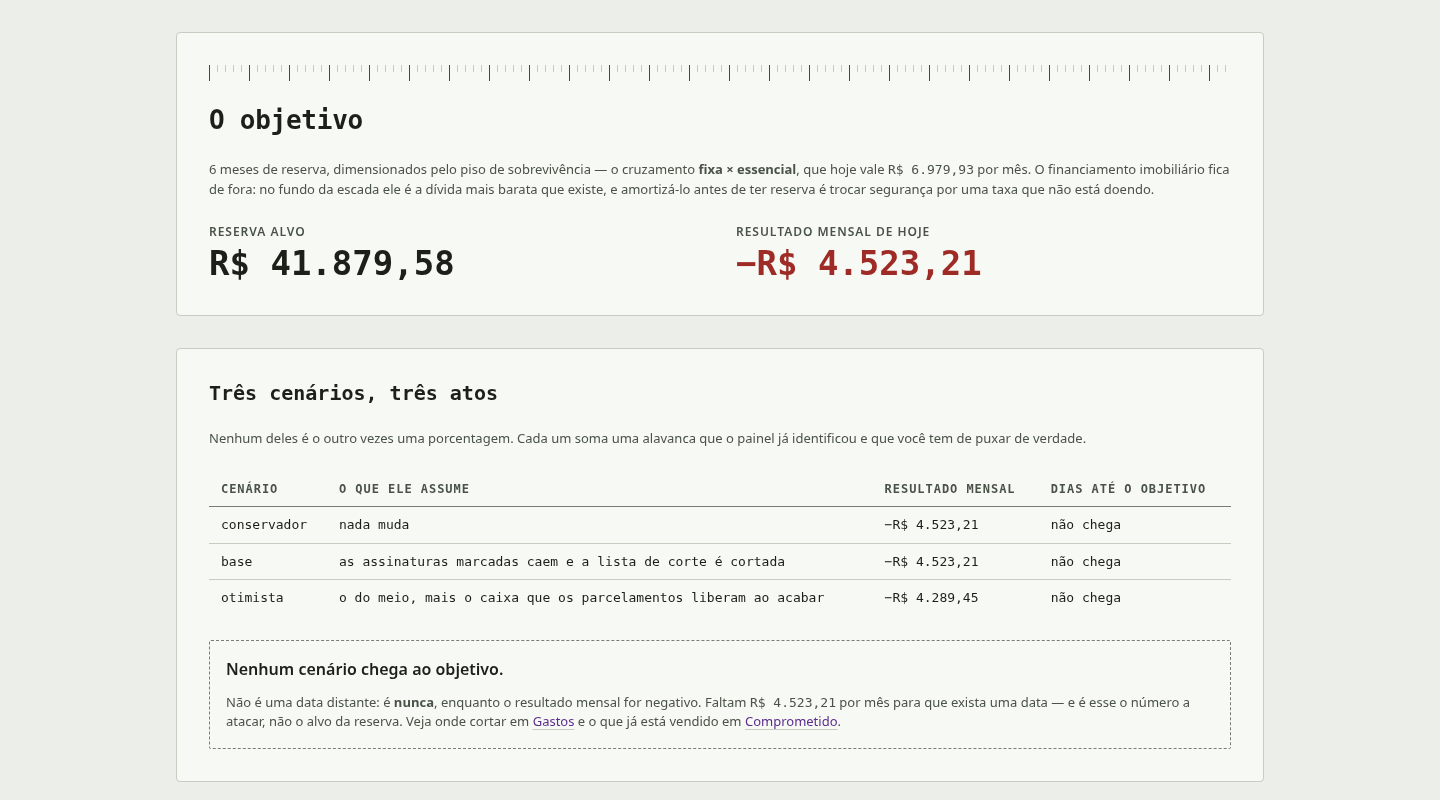
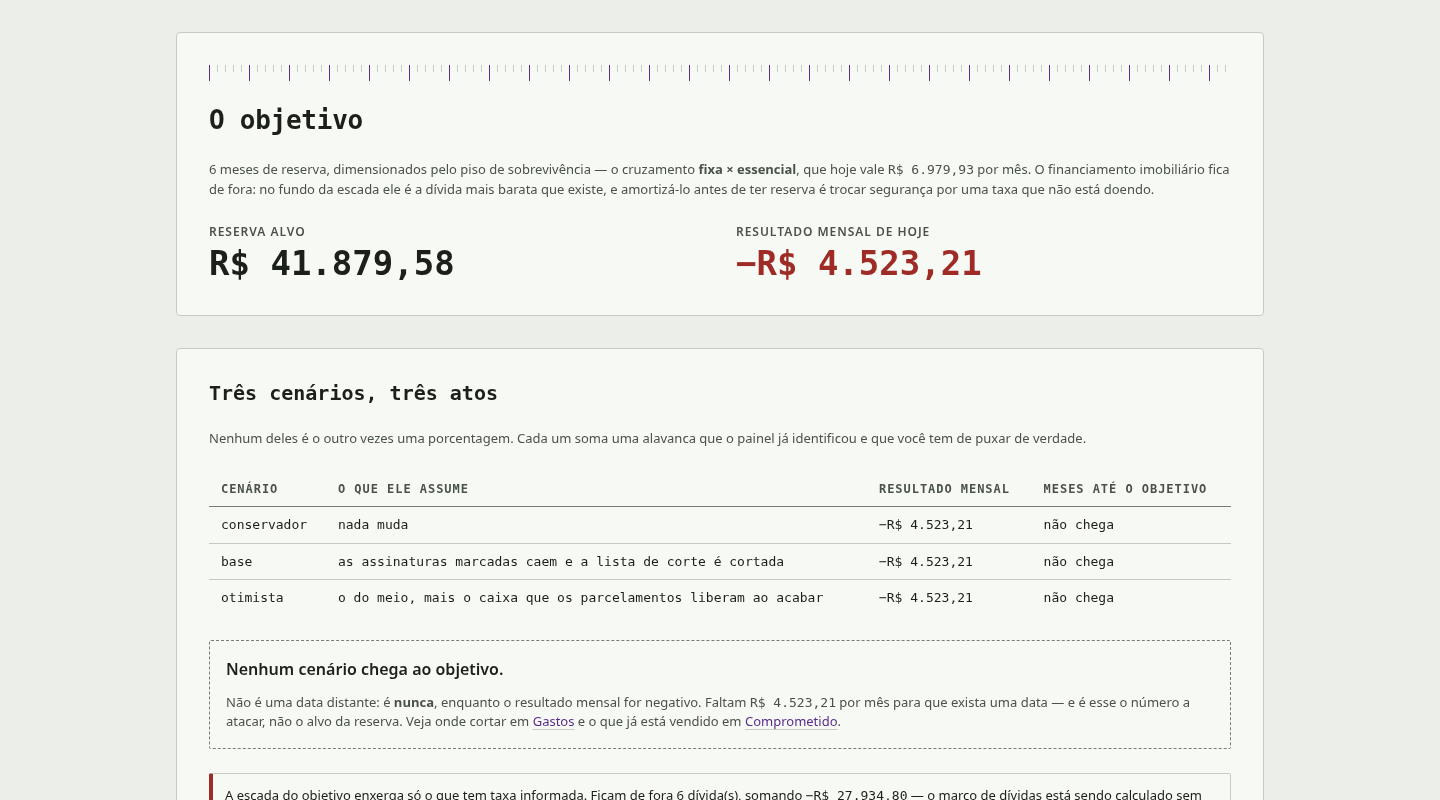
fix(007): the reproved verdict found the date being brought forward
One criterion failed — a test asserting two of the three milestones — and the
hunt around it found eleven things, of which four move the date this screen
exists to give:

- ?data=0001-01-01 is valid ISO, passed the guard and blew up twelve months
  earlier in calendar arithmetic: HTTP 500. The reference date is now clamped.
- a month whose spare came out exactly zero fed the whole month into the
  reserve, crediting a month that went entirely to the debt.
- a ladder already clear was reported as cleared in month one, not month zero.
- the optimistic scenario applied the cash freed by instalments from month one,
  while its own label says "ao acabar".

And three where the screen said something untrue: "enquanto o resultado for
negativo" printed over a positive result with "faltam R$ 0,00" beside it; the
objective ladder silently ignoring the six debts with no rate, R$ 27.934,80 of
real debt; and the timeline comparing projections against a reserve target that
moves with the six-month window, without showing it.

diff --git a/app/templates/objetivo.html b/app/templates/objetivo.html
@@ -32,7 +32,7 @@
         <thead>
           <tr><th scope="col">Cenário</th><th scope="col">O que ele assume</th>
             <th scope="col" class="col-num">Resultado mensal</th>
-            <th scope="col" class="col-num">Dias até o objetivo</th></tr>
+            <th scope="col" class="col-num">Meses até o objetivo</th></tr>
         </thead>
         <tbody>
           {% for run in scenarios %}
@@ -41,7 +41,7 @@
             <td>{{ run['scenario'] }}</td>
             <td>{{ run['label'] }}</td>
             <td class="cifra col-num">{{ run['monthly_result_cents']|brl }}</td>
-            <td class="cifra col-num">{% if run['months_to_objective'] is not none %}{{ run['months_to_objective'] * 30 }}{% else %}não chega{% endif %}</td>
+            <td class="cifra col-num">{% if run['months_to_objective'] is not none %}{{ run['months_to_objective'] }}{% else %}não chega{% endif %}</td>
           </tr>
           {% endfor %}
         </tbody>
@@ -50,12 +50,24 @@
     {% if not reachable %}
     <div class="empty">
       <p class="empty-title">Nenhum cenário chega ao objetivo.</p>
+      {% if base['missing_cents'] %}
       <p class="lede">Não é uma data distante: é <strong>nunca</strong>, enquanto o resultado
         mensal for negativo. Faltam <span class="cifra">{{ base['missing_cents']|brl }}</span> por
         mês para que exista uma data — e é esse o número a atacar, não o alvo da reserva. Veja
         onde cortar em <a href="/gastos">Gastos</a> e o que já está vendido em
         <a href="/comprometido">Comprometido</a>.</p>
+      {% else %}
+      <p class="lede">O resultado mensal já é positivo, mas a sobra não vence os juros da escada
+        dentro do horizonte projetado: o que entra por mês é menor que o que a dívida cresce.
+        Ataque primeiro o degrau de cima em <a href="/dividas">Dívidas</a>.</p>
+      {% endif %}
     </div>
+    {% endif %}
+    {% if unrated %}
+    <p class="notice" id="sem-taxa-aviso" role="status">A escada do objetivo enxerga só o que tem
+      taxa informada. Ficam de fora {{ unrated|length }} dívida(s), somando
+      <span class="cifra">{{ unrated_cents|brl }}</span> — o marco de dívidas está sendo calculado
+      sem elas. Informe as taxas em <a href="/dividas">Dívidas</a>.</p>
     {% endif %}
   </section>
   <section id="marcos" class="panel panel-wide">
@@ -82,7 +94,8 @@
     <h2 class="section-title">A linha do tempo</h2>
     <p class="lede">Cada leitura desta tela grava um ponto. "Em março você projetava 30 meses,
       hoje projeta 24" é o único sinal de progresso que este produto aceita — e ele só existe se
-      houver um março com que comparar.</p>
+      houver um março com que comparar. A reserva alvo aparece na série porque ela também se
+      move: comparar projeções contra um alvo que mudou é comparar coisas diferentes.</p>
     <div class="scale" aria-hidden="true"></div>
     {% if history|length > 1 %}
     <div class="table-scroll">
@@ -90,12 +103,14 @@
         <caption class="sr-only">Projeções gravadas, do cenário base.</caption>
         <thead><tr><th scope="col">Data de referência</th>
           <th scope="col" class="col-num">Resultado mensal</th>
+          <th scope="col" class="col-num">Reserva alvo</th>
           <th scope="col" class="col-num">Meses até o objetivo</th></tr></thead>
         <tbody>
           {% for point in history %}
           <tr data-ponto="{{ point['reference_date'] }}">
             <td class="calendar-date">{{ point['reference_date']|dia }}</td>
             <td class="cifra col-num">{{ point['monthly_result_cents']|brl }}</td>
+            <td class="cifra col-num" data-alvo="{{ point['reserve_target_cents'] }}">{{ point['reserve_target_cents']|brl }}</td>
             <td class="cifra col-num">{% if point['months_to_objective'] is not none %}{{ point['months_to_objective'] }}{% else %}não chega{% endif %}</td>
           </tr>
           {% endfor %}

diff --git a/app/plan/timeline.py b/app/plan/timeline.py
@@ -1,6 +1,7 @@
 import sqlite3
 from datetime import date
 
+from app.commitments.live import released_cash
 from app.debts.ladder import MORTGAGE, ladder
 from app.plan.objective import baseline_cents, levers, reserve_target_cents
 from app.projection.position import positions
@@ -11,6 +12,7 @@ OPTIMISTIC = "otimista"
 SCENARIOS = (CONSERVATIVE, BASE, OPTIMISTIC)
 
 EXPENSIVE_RATE_BP = 100
+RATE_SCALE = 10000
 HORIZON_MONTHS = 360
 
 LABELS = {
@@ -18,6 +20,21 @@ LABELS = {
     BASE: "as assinaturas marcadas caem e a lista de corte é cortada",
     OPTIMISTIC: "o do meio, mais o caixa que os parcelamentos liberam ao acabar",
 }
+
+
+def released_by_month(conn: sqlite3.Connection, *, today: date) -> list[tuple[int, int]]:
+    # The cash an instalment frees arrives when the instalment ends, not today:
+    # the label says "ao acabar" and the simulation has to honour it (RF-16).
+    reference = f"{today.year:04d}-{today.month:02d}"
+    freed = []
+    for row in released_cash(conn, today=today):
+        ahead = _months_between(reference, row["month"])
+        freed.append((max(ahead, 0), row["amount_cents"]))
+    return sorted(freed)
+
+
+def _months_between(start: str, end: str) -> int:
+    return (int(end[:4]) - int(start[:4])) * 12 + int(end[5:7]) - int(start[5:7])
 
 
 def monthly_result_cents(conn: sqlite3.Connection, scenario: str, *, today: date) -> int:
@@ -29,8 +46,6 @@ def monthly_result_cents(conn: sqlite3.Connection, scenario: str, *, today: date
     result = baseline_cents(conn, today=today)
     if scenario in (BASE, OPTIMISTIC):
         result += gained["dismissed"] + gained["cut"]
-    if scenario == OPTIMISTIC:
-        result += gained["released"]
     return result
 
 
@@ -46,17 +61,24 @@ def expensive_debts(conn: sqlite3.Connection) -> list[dict]:
 
 
 def simulate(conn: sqlite3.Connection, scenario: str, *, today: date) -> dict:
-    result = monthly_result_cents(conn, scenario, today=today)
+    base_result = monthly_result_cents(conn, scenario, today=today)
+    freed = released_by_month(conn, today=today) if scenario == OPTIMISTIC else []
     target = reserve_target_cents(conn, today=today)
-    owed = [abs(row["balance_cents"]) for row in expensive_debts(conn)]
-    rates = [(row["monthly_rate_bp"] or 0) / 10000 for row in expensive_debts(conn)]
+    steps = expensive_debts(conn)
+    owed = [abs(row["balance_cents"]) for row in steps]
+    rates = [(row["monthly_rate_bp"] or 0) / RATE_SCALE for row in steps]
     cash = positions(conn)["cash_cents"]
 
     milestones: dict[str, int | None] = {"resultado": None, "dividas": None, "reserva": None}
-    if result >= 0:
+    if base_result >= 0:
         milestones["resultado"] = 0
+    # A ladder that is already clear was cleared in month zero, not in month one.
+    if not any(owed):
+        milestones["dividas"] = 0
     reserve = 0
+    result = base_result
     for month in range(1, HORIZON_MONTHS + 1):
+        result += sum(amount for when, amount in freed if when == month)
         if result <= 0:
             # A month that ends in the red cannot pay anything down, and the debt
             # grows at its own rate: saying "in N months" here would be inventing
@@ -74,19 +96,22 @@ def simulate(conn: sqlite3.Connection, scenario: str, *, today: date) -> dict:
         if milestones["dividas"] is None and not any(owed):
             milestones["dividas"] = month
         if not any(owed):
-            reserve += spare if spare else result
+            # Only what the ladder did not swallow goes to the reserve. Adding the
+            # whole month when the spare happens to be exactly zero would credit
+            # a month that went entirely to the debt (RF-17).
+            reserve += spare
             if milestones["reserva"] is None and reserve >= target:
                 milestones["reserva"] = month
                 break
     return {
         "scenario": scenario,
         "label": LABELS[scenario],
-        "monthly_result_cents": result,
         "reserve_target_cents": target,
         "cash_cents": cash,
         "expensive_cents": -sum(abs(row["balance_cents"]) for row in expensive_debts(conn)),
         "milestones": milestones,
         "months_to_objective": milestones["reserva"],
+        "monthly_result_cents": base_result,
         # Without a date, the only useful number left is how far the monthly
         # result is from zero: that is the distance between "never" and "a date
         # exists", and it is the one thing the owner can act on.

diff --git a/tests/test_plan.py b/tests/test_plan.py
@@ -59,7 +59,7 @@ def test_a_month_that_ends_in_the_red_never_reaches_the_objective(taxonomy_conn)
 
     assert found["monthly_result_cents"] < 0
     assert found["months_to_objective"] is None
-    assert found["milestones"]["resultado"] is None
+    assert found["milestones"] == {"resultado": None, "dividas": None, "reserva": None}
     assert found["missing_cents"] == -found["monthly_result_cents"]
 
 
@@ -77,7 +77,7 @@ def test_the_mortgage_never_enters_the_expensive_ladder(taxonomy_conn):
     conn = prepare(taxonomy_conn, salary(5000.0) + rent(-1000.0))
     conn.execute(
         "INSERT INTO debts (kind, name, balance_cents, monthly_rate_bp, source) "
-        "VALUES ('mortgage', 'Imovel', -20000000, 72, 'teste'), "
+        "VALUES ('mortgage', 'Imovel', -20000000, 200, 'teste'), "
         "('card', 'Cartao', -500000, 900, 'teste')"
     )
     conn.commit()
@@ -103,3 +103,27 @@ def test_every_reading_writes_a_point_and_the_same_day_writes_only_one(taxonomy_
     record(conn, runs, today=date(2026, 10, 5))
 
     assert [point["reference_date"] for point in history(conn)] == ["2026-09-05", "2026-10-05"]
+
+
+def test_a_ladder_already_clear_was_cleared_in_month_zero(taxonomy_conn):
+    conn = prepare(taxonomy_conn, salary(9000.0) + rent(-1000.0))
+    conn.execute("DELETE FROM debts")
+    conn.commit()
+    found = simulate(conn, CONSERVATIVE, today=REFERENCE)
+
+    assert found["milestones"]["dividas"] == 0
+
+
+def test_a_month_that_goes_entirely_to_the_debt_does_not_feed_the_reserve(taxonomy_conn):
+    conn = prepare(taxonomy_conn, salary(9000.0) + rent(-1000.0))
+    conn.execute("DELETE FROM debts")
+    conn.execute(
+        "INSERT INTO debts (kind, name, balance_cents, monthly_rate_bp, source) "
+        "VALUES ('card', 'Cartao', ?, 900, 'teste')",
+        (-simulate(conn, CONSERVATIVE, today=REFERENCE)["monthly_result_cents"] * 100 // 109,),
+    )
+    conn.commit()
+    found = simulate(conn, CONSERVATIVE, today=REFERENCE)
+
+    assert found["milestones"]["dividas"] == 1
+    assert found["milestones"]["reserva"] != 1

diff --git a/app/routers/plan.py b/app/routers/plan.py
@@ -7,6 +7,7 @@ from starlette.requests import Request
 from starlette.responses import Response
 
 from app.db import connect
+from app.debts.ladder import without_rate
 from app.plan.objective import RESERVE_MONTHS, floor_label, levers, survival_floor_cents
 from app.plan.timeline import BASE, every_scenario, history, record
 from app.queries.period import InvalidPeriodError, day
@@ -34,11 +35,20 @@ def objective_screen(request: Request) -> Response:
         conn.close()
 
 
+EARLIEST = date(2000, 1, 1)
+LATEST = date(2100, 12, 31)
+
+
 def _reference(asked: object) -> date:
+    # Every reading of this screen writes a point in a permanent series keyed by
+    # this date, and the twelve-month window behind it does date arithmetic that
+    # falls off the edge of the calendar: `0001-01-01` is valid ISO and took the
+    # route down with a 500 (RF-15).
     try:
-        return day(asked, DATE_FIELD)
+        asked_date = day(asked, DATE_FIELD)
     except InvalidPeriodError:
         return date.today()
+    return asked_date if EARLIEST <= asked_date <= LATEST else date.today()
 
 
 def _context(conn: sqlite3.Connection, runs: list[dict], today: date) -> dict[str, Any]:
@@ -52,4 +62,9 @@ def _context(conn: sqlite3.Connection, runs: list[dict], today: date) -> dict[st
         "levers": levers(conn, today=today),
         "history": history(conn),
         "reachable": any(run["months_to_objective"] is not None for run in runs),
+        # The ladder of the objective only sees debts with a rate. Six of them
+        # have none, and they are not small: leaving them out in silence would
+        # make the milestone true over a fraction of the real debt (RF-18).
+        "unrated": without_rate(conn),
+        "unrated_cents": sum(row["balance_cents"] for row in without_rate(conn)),
     }

diff --git a/app/plan/objective.py b/app/plan/objective.py
@@ -3,7 +3,7 @@ from datetime import date
 
 from app.commitments.live import released_cash
 from app.commitments.live import totals as commitment_totals
-from app.projection.monthly import MONTHS, complete_months, median
+from app.projection.monthly import complete_months, median
 from app.queries.crossings import crossing
 from app.queries.spending import SPENDING
 
@@ -41,7 +41,7 @@ def floor_label(conn: sqlite3.Connection) -> str:
     # the vocabulary is data, and a screen that spells it out becomes a second
     # place to change when the owner renames it (RF do 002).
     found = conn.execute(_LABEL, (FLOOR_SLUG,)).fetchone()
-    return found["label"] if found else FLOOR_SLUG
+    return found["label"] if found else "o piso de sobrevivência"
 
 
 def reserve_target_cents(conn: sqlite3.Connection, *, today: date) -> int:
@@ -86,5 +86,3 @@ def baseline_cents(conn: sqlite3.Connection, *, today: date) -> int:
     results = monthly_results(conn, today=today)
     return median(results) if results else 0
 
-
-MEDIAN_MONTHS = MONTHS

diff --git a/product/items/007-objetivo-e-linha-do-tempo/03-plan.md b/product/items/007-objetivo-e-linha-do-tempo/03-plan.md
@@ -49,8 +49,28 @@ DASH_KEY_PATH=/tmp/dash-007.key .venv/bin/python -m app`.
       deixa os três marcos nulos e o "falta" igual ao resultado invertido; um que
       afirma que um mês positivo alcança o objetivo e devolve meses; um que
       afirma que uma dívida de tipo `mortgage` **não** entra na escada do
-      objetivo enquanto uma de tipo `card` entra; e um que afirma que ler duas
-      vezes no mesmo dia grava um ponto só
+      objetivo enquanto uma de tipo `card` entra, com a taxa do imóvel **acima**
+      do corte de 1% ao mês, para que o teste exercite a guarda e não a
+      comparação de taxa; um que afirma que ler duas vezes no mesmo dia grava um
+      ponto só; um que afirma que uma escada já limpa devolve `dividas == 0`; e
+      um que afirma que um mês que vai inteiro para a dívida **não** alcança a
+      reserva no mesmo mês. O teste do mês negativo afirma os **três** marcos
+- [ ] `comportamental` — RF-15, RF-20, RF-18
+      *Dado* o servidor rodando e um cookie válido
+      *Quando* `GET /objetivo?data=0001-01-01` é buscada
+      *Então* a resposta é `200`, **não** `500`; e a resposta de
+      `/objetivo?data=2026-09-05` traz o bloco `id="sem-taxa-aviso"` com a
+      contagem de dívidas sem taxa e a soma delas
+- [ ] `comando` — RF-16, RF-17, RF-19, RF-22
+      `rtk proxy grep -REn --exclude-dir=__pycache__ "\* 30" app/templates` não
+      imprime nenhuma linha; e `rtk proxy grep -c "released_by_month"
+      app/plan/timeline.py` imprime um número maior que 1
+- [ ] `comportamental` — RF-21
+      *Dado* o servidor rodando e um cookie válido
+      *Quando* `/objetivo?data=2026-09-05` e `/objetivo?data=2026-10-05` são
+      buscadas e a primeira é buscada de novo
+      *Então* o bloco `id="linha-do-tempo"` traz dois elementos com `data-alvo`,
+      e os dois valores são **diferentes** entre si
 - [ ] `comportamental` — RF-14
       *Dado* o Chromium com `prefers-reduced-motion: reduce` emulado, sessão
       válida e `http://127.0.0.1:8000/objetivo?data=2026-09-05` carregada

diff --git a/product/items/007-objetivo-e-linha-do-tempo/01-brief.md b/product/items/007-objetivo-e-linha-do-tempo/01-brief.md
@@ -32,3 +32,28 @@
 - **RF-13** — `GET /objetivo` fica atrás da sessão, e o Resumo leva até ela.
 - **RF-14** — A tela obedece à linguagem visual; nenhum número medido aparece
   como literal no código.
+
+## O que o veredicto reprovado obrigou a escrever
+
+- **RF-15** — Data de referência fora de `2000-01-01`–`2100-12-31` cai na data de
+  hoje. `0001-01-01` é ISO válido, passava a guarda e estourava doze meses antes,
+  em aritmética de calendário, derrubando a rota com `500`.
+- **RF-16** — O caixa que um parcelamento libera entra na simulação **no mês em
+  que ele acaba**, não no primeiro. O rótulo do cenário diz "ao acabar" e o
+  código passa a honrá-lo.
+- **RF-17** — Só o que a escada **não** consumiu vai para a reserva. Somar o mês
+  inteiro quando a sobra é exatamente zero creditava um mês que foi todo para a
+  dívida, e antecipava o objetivo em um mês.
+- **RF-18** — A escada do objetivo só enxerga dívida com taxa informada. A tela
+  diz **quantas ficaram de fora e quanto elas somam**, porque o marco de dívidas
+  estava sendo calculado sobre uma fração da dívida real, em silêncio.
+- **RF-19** — Escada já limpa foi limpa no mês **zero**, não no mês um.
+- **RF-20** — Quando não há data mas o resultado mensal **não** é negativo, a
+  tela diz que a sobra não vence os juros da escada, em vez de afirmar "enquanto
+  o resultado for negativo" com um "faltam R$ 0,00" ao lado.
+- **RF-21** — A linha do tempo mostra a **reserva alvo** de cada ponto: ela se
+  move quando a janela de seis meses desliza, e comparar projeções contra um alvo
+  que mudou é comparar coisas diferentes.
+- **RF-22** — A tela usa **meses** como unidade em todos os blocos. A tabela de
+  cenários dizia "dias" e calculava `meses × 30`, que erra cerca de cinco dias
+  por ano de projeção.

diff --git a/product/items/007-objetivo-e-linha-do-tempo/decisoes-autonomas.md b/product/items/007-objetivo-e-linha-do-tempo/decisoes-autonomas.md
@@ -8,3 +8,4 @@
 | D4 | discovery | A tela mostra **quanto falta por mês** quando não há data | Mostrar só o alvo da reserva | Sem resultado positivo, o alvo é decoração. O número acionável é a distância até o zero: R$ 4.523,21 por mês. |
 | D5 | plan | **Toda leitura** da tela grava snapshot | Um botão "gravar ponto" | Ninguém aperta um botão para criar histórico, e sem histórico a linha do tempo não existe. A chave `(data, cenário)` impede que reler no mesmo dia infle a série. |
 | D6 | fase 1 | O código foi escrito **antes** do brief e do plano, e os dois foram redigidos contra a medição | Escrever os documentos primeiro, como nos itens anteriores | Registro porque é desvio de processo, não porque foi bom: a pressa da corrida levou a implementar e medir antes de escrever. O portão que importa — o validador cego, que não vê nem o plano nem o brief — continua intacto, e todos os números dos critérios saem de medição e não de previsão. |
+| D7 | fase 1 | O veredicto voltou **REPROVADO** e os onze achados viraram requisito (`RF-15` a `RF-22`), com critério e teste | Corrigir só o critério que reprovou | O critério que reprovou era pequeno — um teste que afirmava dois dos três marcos. Mas a caça do validador achou um `500` reproduzível, dois erros de aritmética que **antecipavam a data do objetivo**, uma tela que dizia "enquanto o resultado for negativo" com o resultado positivo e "faltam R$ 0,00" ao lado, e a escada do objetivo ignorando em silêncio 88% da dívida real. Num item cuja unidade é dia, errar a data é errar o produto. |
